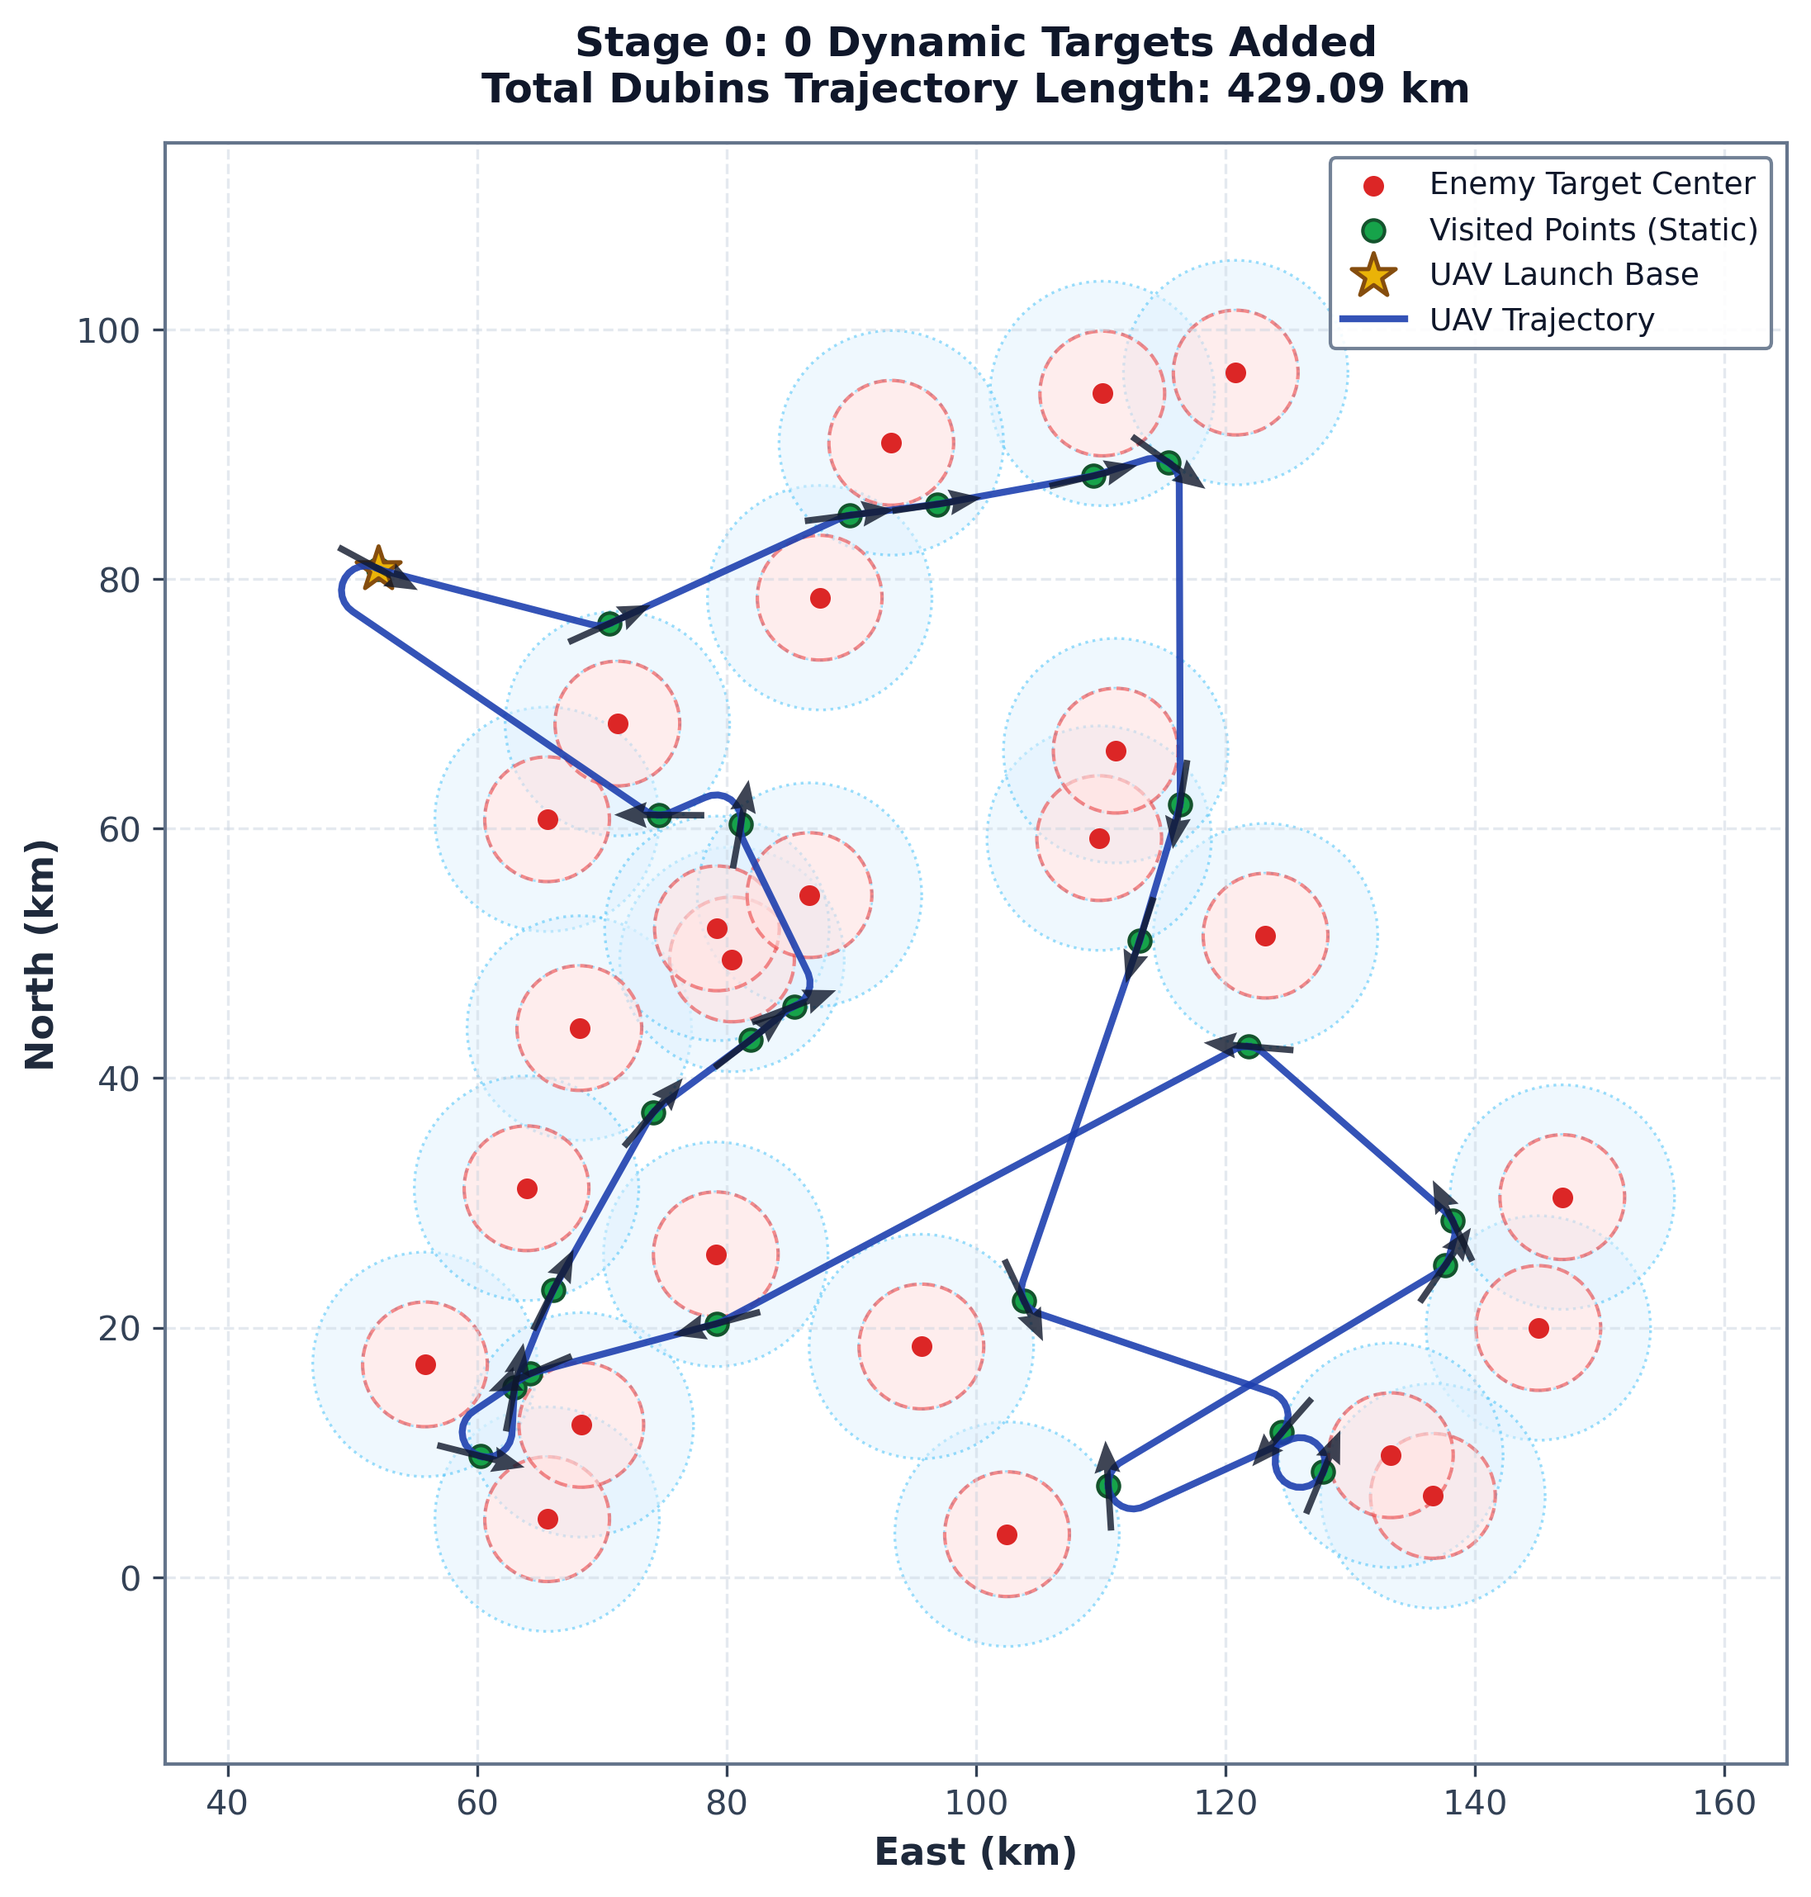
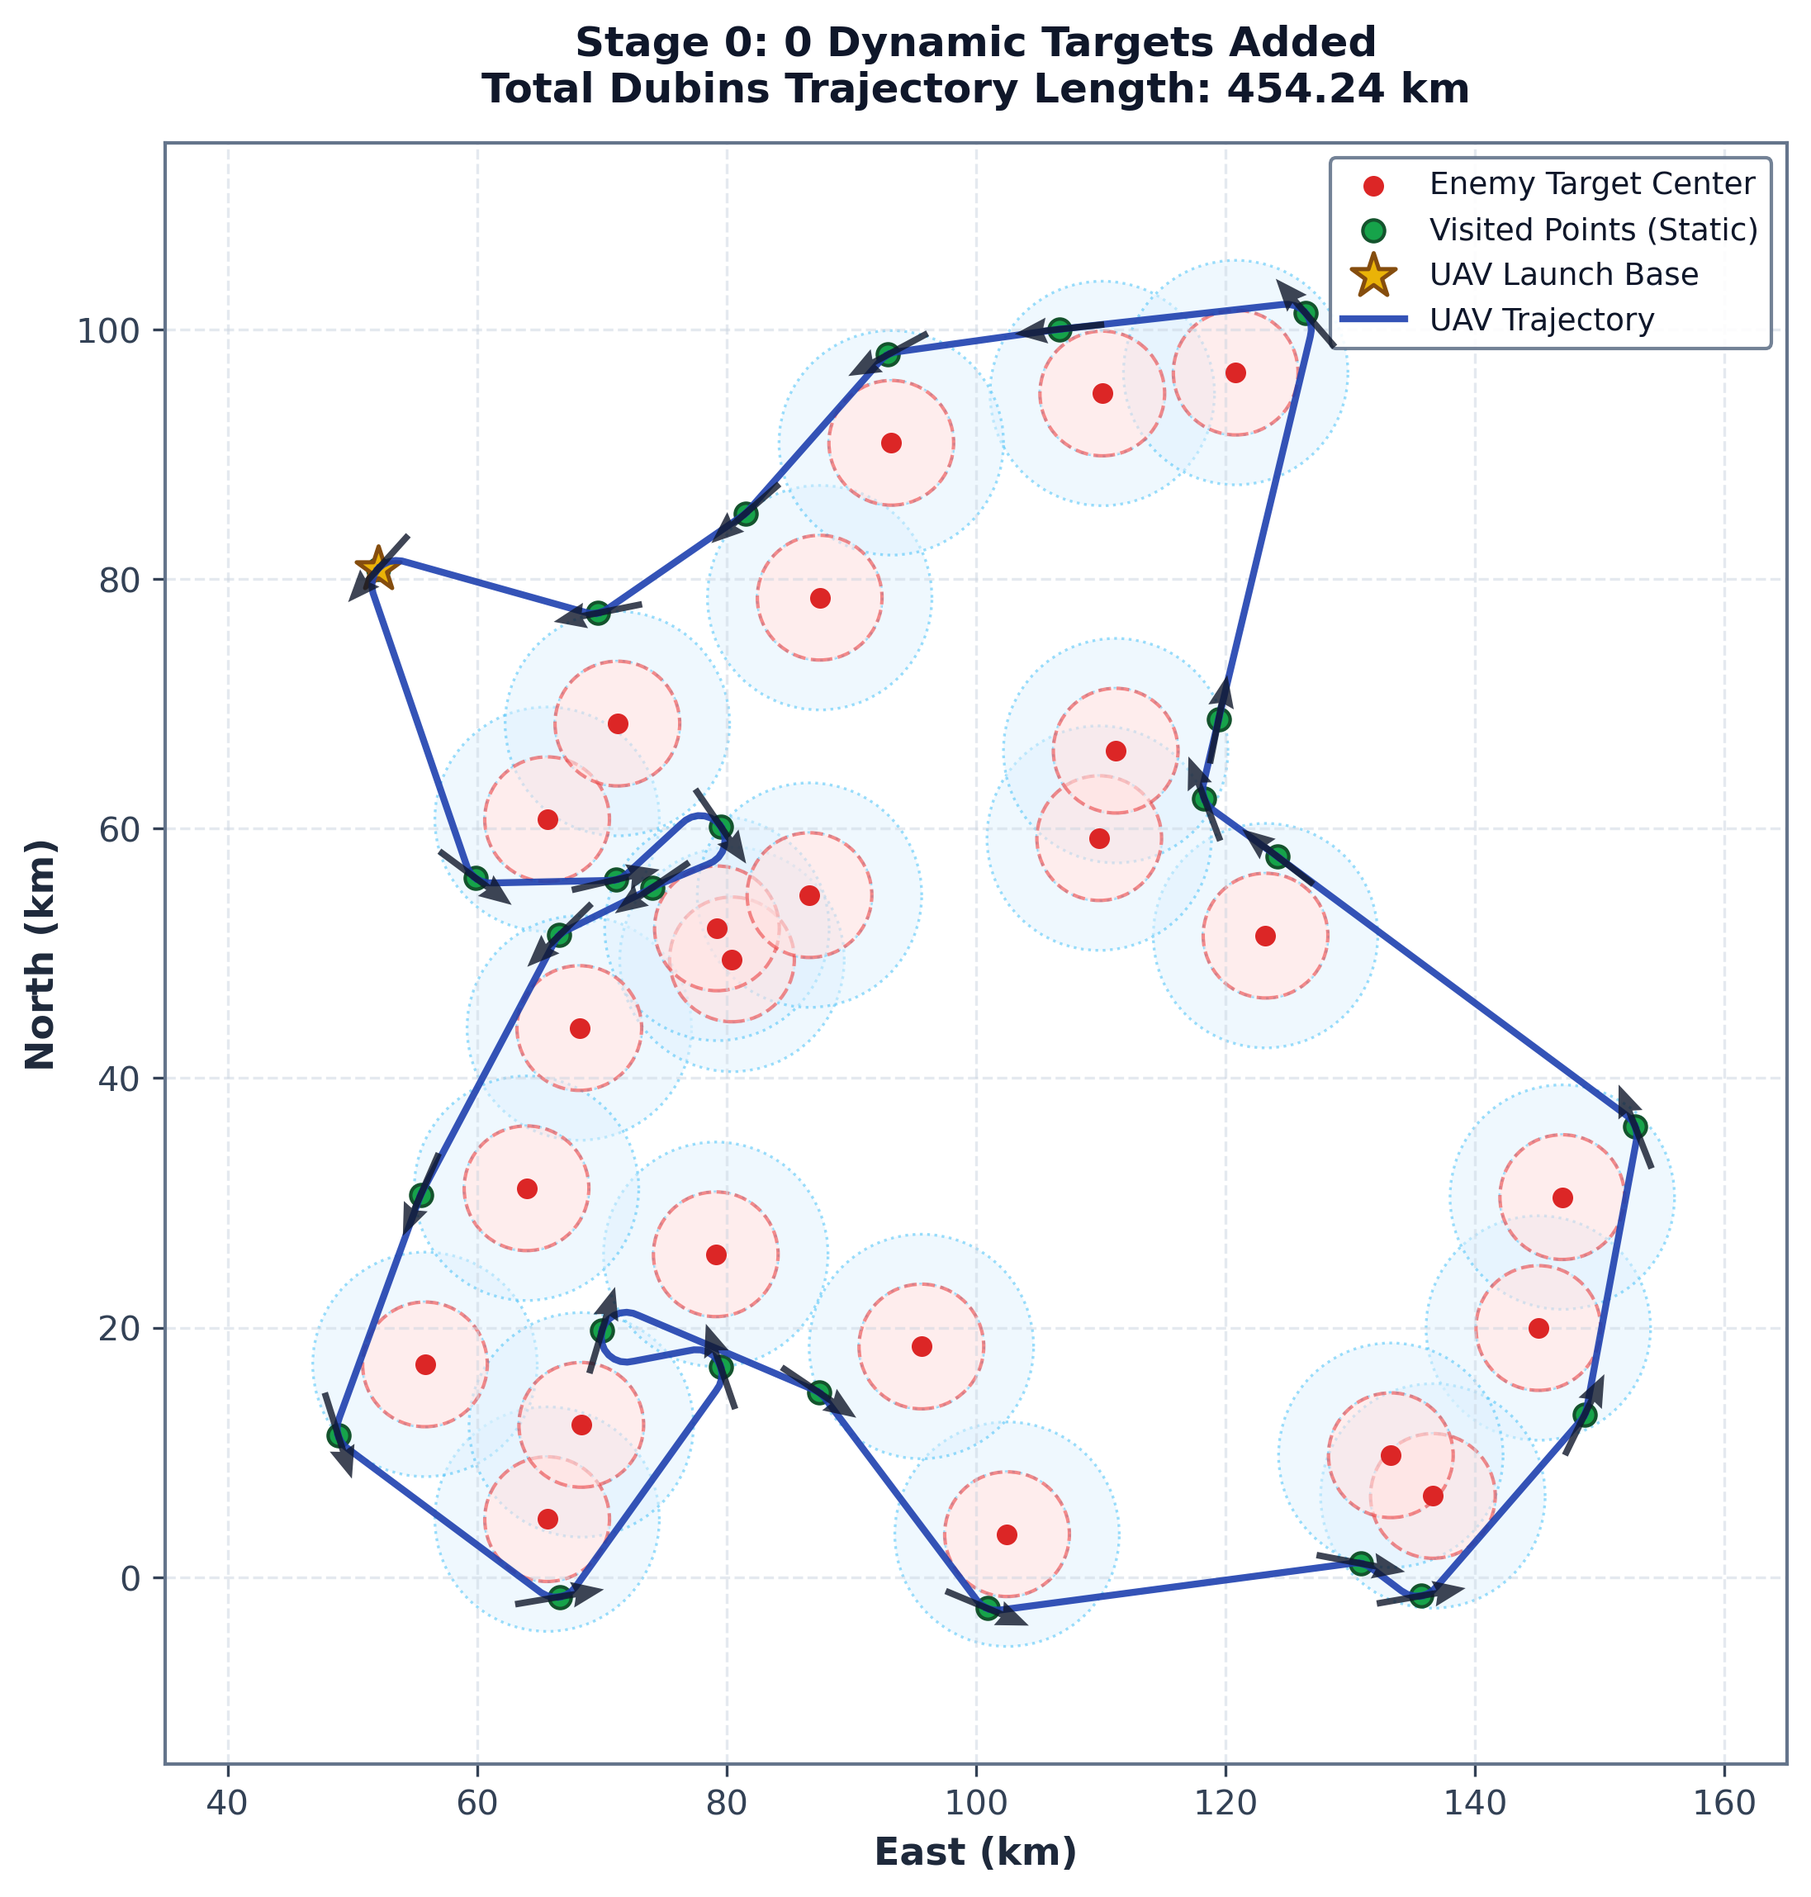
Feat: Add Tangent Heading Smoothing and Streamlined Waypoint Placement

diff --git a/dtsp_uav/algorithms/simulated_annealing_tspn.py b/dtsp_uav/algorithms/simulated_annealing_tspn.py
@@ -143,57 +143,98 @@ class SimulatedAnnealingTSPN:
 
 
 
+    def _compute_tangent_headings(self, indices, phi_angles, radii, centers, start_node_idx):
+        """
+        計算全域平滑切線航向角：
+        無人機通過每個觀測點時的航向向量直接設定為 (下一點 - 當前點) 與 (當前點 - 前一點) 的平均切線向量，
+        確保航向角與飛行軌跡永遠完全順向對齊，100% 杜絕 270~360 度的 Dubins 水滴自轉迴旋圈。
+        """
+        n_points = len(centers)
+        pts = np.zeros((n_points, 2))
+        for idx in range(n_points):
+            if idx == start_node_idx:
+                pts[idx] = centers[idx]
+            else:
+                pts[idx] = centers[idx] + radii[idx] * np.array([np.cos(phi_angles[idx]), np.sin(phi_angles[idx])])
+        
+        headings = np.zeros(n_points)
+        n_route = len(indices)
+        for pos in range(n_route):
+            curr_node = indices[pos]
+            prev_node = indices[(pos - 1) % n_route]
+            next_node = indices[(pos + 1) % n_route]
+            
+            v_in = pts[curr_node] - pts[prev_node]
+            n_in = np.linalg.norm(v_in)
+            if n_in > 1e-6: v_in /= n_in
+            
+            v_out = pts[next_node] - pts[curr_node]
+            n_out = np.linalg.norm(v_out)
+            if n_out > 1e-6: v_out /= n_out
+            
+            v_tangent = v_in + v_out
+            if np.linalg.norm(v_tangent) < 1e-3:
+                v_tangent = v_out
+            else:
+                v_tangent /= np.linalg.norm(v_tangent)
+                
+            headings[curr_node] = np.arctan2(v_tangent[1], v_tangent[0])
+            
+        return headings
+
+    def _initialize_smooth_configuration(self, indices, centers, start_node_idx):
+        """
+        智慧幾何外切初始化：
+        將所有敵艦的觀測點預設放置在遠離相鄰點與中心的外緣切線上，給予充足轉彎緩衝區。
+        """
+        n_points = len(centers)
+        phi_angles = np.zeros(n_points)
+        radii = np.ones(n_points) * self.obs_max_radius
+        centroid = np.mean(centers, axis=0)
+        
+        n_route = len(indices)
+        for pos in range(n_route):
+            target_idx = indices[pos]
+            if target_idx == start_node_idx:
+                continue
+            prev_idx = indices[(pos - 1) % n_route]
+            next_idx = indices[(pos + 1) % n_route]
+            
+            vec_to_centroid = centers[target_idx] - centroid
+            vec_prev = centers[target_idx] - centers[prev_idx]
+            vec_next = centers[next_idx] - centers[target_idx]
+            
+            tangent = vec_next / (np.linalg.norm(vec_next) + 1e-6) + vec_prev / (np.linalg.norm(vec_prev) + 1e-6)
+            if np.linalg.norm(tangent) < 1e-3:
+                out_normal = vec_to_centroid
+            else:
+                out_normal = np.array([-tangent[1], tangent[0]])
+                if np.dot(out_normal, vec_to_centroid) < 0:
+                    out_normal = -out_normal
+                    
+            if np.linalg.norm(out_normal) > 1e-3:
+                phi_angles[target_idx] = np.arctan2(out_normal[1], out_normal[0])
+            else:
+                phi_angles[target_idx] = np.arctan2(vec_to_centroid[1], vec_to_centroid[0])
+                
+        headings = self._compute_tangent_headings(indices, phi_angles, radii, centers, start_node_idx)
+        return headings, phi_angles, radii
+
     def optimize(self, route, centers, start_node_idx):
         """
-        執行 DTSPN 優化。
-        :param route: 初始 Route 物件
-        :param centers: 目標中心座標 (N, 2)
-        :param start_node_idx: 起點索引
-        :return: (最佳 Route, 最佳 x-y-heading 點位矩陣, 最佳 phi_angles, 最佳 radii)
+        執行平滑化 DTSPN 優化 (結合切線流與防碰撞)。
         """
         n_points = len(centers)
         current_indices = list(route.indices)
         
-        # 確保起點排在第一位
         if current_indices[0] != start_node_idx:
             s_pos = current_indices.index(start_node_idx)
             current_indices = current_indices[s_pos:] + current_indices[:s_pos]
             
-        # 1. 智慧初始化變數
-        current_headings = np.zeros(n_points)
-        current_phi_angles = np.zeros(n_points)
-        current_radii = np.ones(n_points) * self.obs_max_radius  # 預設都在最外圈 9km 以利避障
-        
-        n_route = len(current_indices)
-        for pos in range(n_route):
-            target_idx = current_indices[pos]
-            if target_idx == start_node_idx:
-                continue
-            prev_idx = current_indices[(pos - 1) % n_route]
-            next_idx = current_indices[(pos + 1) % n_route]
-            
-            # 拜訪點指向前一點與後一點的平分線方向，減少折返
-            vec_prev = centers[prev_idx] - centers[target_idx]
-            vec_next = centers[next_idx] - centers[target_idx]
-            dir_vec = vec_prev / np.linalg.norm(vec_prev) + vec_next / np.linalg.norm(vec_next)
-            if np.linalg.norm(dir_vec) < 1e-3:
-                dir_vec = vec_next
-            
-            angle = np.arctan2(dir_vec[1], dir_vec[0])
-            current_phi_angles[target_idx] = angle
-            
-            # 預設航向指向下一個目標的預估拜訪點
-            r_next = self.obs_max_radius if next_idx != start_node_idx else 0.0
-            next_est_pos = centers[next_idx] + r_next * np.array([np.cos(current_phi_angles[next_idx]), np.sin(current_phi_angles[next_idx])])
-            curr_pos = centers[target_idx] + self.obs_max_radius * np.array([np.cos(angle), np.sin(angle)])
-            vec_to_next = next_est_pos - curr_pos
-            current_headings[target_idx] = np.arctan2(vec_to_next[1], vec_to_next[0])
-
-        # 起點航向指向第二個點
-        next_idx = current_indices[1]
-        next_est_pos = centers[next_idx] + self.obs_max_radius * np.array([np.cos(current_phi_angles[next_idx]), np.sin(current_phi_angles[next_idx])])
-        vec_to_next = next_est_pos - centers[start_node_idx]
-        current_headings[start_node_idx] = np.arctan2(vec_to_next[1], vec_to_next[0])
+        # 1. 智慧外切與平滑切線初始化
+        current_headings, current_phi_angles, current_radii = self._initialize_smooth_configuration(
+            current_indices, centers, start_node_idx
+        )
 
         current_cost, current_col = self._get_combined_cost_and_collisions(
             current_indices, current_headings, current_phi_angles, current_radii, centers, start_node_idx
@@ -210,70 +251,41 @@ class SimulatedAnnealingTSPN:
         temp = self._estimate_initial_temperature(
             current_indices, current_headings, current_phi_angles, current_radii, centers, start_node_idx
         )
-        temp = max(temp, 100.0)  # 保證有足夠溫度
-        print(f"DTSPN 適應性初始溫度: {temp:.4f}，初始碰撞次數: {current_col}")
+        temp = max(temp, 100.0)
+        print(f"DTSPN 平滑化初始溫度: {temp:.4f}，初始碰撞次數: {current_col}")
+
+        n_route = len(current_indices)
 
         # 模擬退火主迴圈
         for step in range(self.max_iter):
             t_curr = temp * (self.cooling_rate ** step)
             
             new_indices = list(current_indices)
-            new_headings = np.array(current_headings)
             new_phi_angles = np.array(current_phi_angles)
             new_radii = np.array(current_radii)
             
             r_val = random.random()
-            if r_val < 0.15:
-                # 1. 2-opt 順序改變 (保持起點在 index 0)
+            if r_val < 0.20:
+                # 1. 2-opt 順序改變
                 if n_route >= 4:
                     idx1, idx2 = random.sample(range(1, n_route), 2)
                     if idx1 > idx2: idx1, idx2 = idx2, idx1
                     new_indices = current_indices[:idx1] + current_indices[idx1:idx2+1][::-1] + current_indices[idx2+1:]
-            elif r_val < 0.35:
-                # 2. 航向角擾動
-                target_idx = random.randint(0, n_points - 1)
-                new_headings[target_idx] += np.random.normal(0, np.radians(15))
-                new_headings[target_idx] %= (2 * np.pi)
-            elif r_val < 0.55:
-                # 3. 甜甜圈觀測角 phi 擾動
+            elif r_val < 0.60:
+                # 2. 甜甜圈觀測角 phi 擾動 (在相鄰連線外側微調)
                 target_idx = random.randint(0, n_points - 1)
                 if target_idx != start_node_idx:
-                    new_phi_angles[target_idx] += np.random.normal(0, np.radians(20))
+                    new_phi_angles[target_idx] += np.random.normal(0, np.radians(15))
                     new_phi_angles[target_idx] %= (2 * np.pi)
-            elif r_val < 0.75:
-                # 4. 甜甜圈觀測半徑 r 擾動
+            else:
+                # 3. 甜甜圈半徑 r 擾動
                 target_idx = random.randint(0, n_points - 1)
                 if target_idx != start_node_idx:
-                    new_radii[target_idx] += np.random.normal(0, 0.5)
+                    new_radii[target_idx] += np.random.normal(0, 0.4)
                     new_radii[target_idx] = np.clip(new_radii[target_idx], self.obs_min_radius, self.obs_max_radius)
-            else:
-                # 5. 智慧航向與角度對齊
-                target_pos = random.randint(0, n_route - 1)
-                target_node = new_indices[target_pos]
-                
-                # 計算目前所有拜訪點座標
-                pts = np.zeros((n_points, 2))
-                for idx in range(n_points):
-                    if idx == start_node_idx:
-                        pts[idx] = centers[idx]
-                    else:
-                        pts[idx] = centers[idx] + new_radii[idx] * np.array([np.cos(new_phi_angles[idx]), np.sin(new_phi_angles[idx])])
-                
-                prev_node = new_indices[(target_pos - 1) % n_route]
-                next_node = new_indices[(target_pos + 1) % n_route]
-                
-                if random.random() < 0.5:
-                    # 航向對齊：指向下一點
-                    vec = pts[next_node] - pts[target_node]
-                    new_headings[target_node] = np.arctan2(vec[1], vec[0])
-                else:
-                    # 拜訪點角度對齊：指向前後兩點向量的平分線方向
-                    if target_node != start_node_idx:
-                        vec_prev = pts[prev_node] - centers[target_node]
-                        vec_next = pts[next_node] - centers[target_node]
-                        dir_vec = vec_prev / np.linalg.norm(vec_prev) + vec_next / np.linalg.norm(vec_next)
-                        if np.linalg.norm(dir_vec) > 1e-3:
-                            new_phi_angles[target_node] = np.arctan2(dir_vec[1], dir_vec[0])
+
+            # 強制維持平滑切線航向 (消除水滴圈的核心保障)
+            new_headings = self._compute_tangent_headings(new_indices, new_phi_angles, new_radii, centers, start_node_idx)
 
             new_cost, new_col = self._get_combined_cost_and_collisions(
                 new_indices, new_headings, new_phi_angles, new_radii, centers, start_node_idx
@@ -296,6 +308,27 @@ class SimulatedAnnealingTSPN:
                     best_cost = current_cost
                     best_col = current_col
 
+        # 4. 後處理切線局部精細化 (Fine-tuning Smoothing Pass)
+        for _ in range(3):
+            for target_idx in range(n_points):
+                if target_idx == start_node_idx:
+                    continue
+                orig_phi = best_phi_angles[target_idx]
+                orig_r = best_radii[target_idx]
+                for d_phi in [-0.15, -0.05, 0.05, 0.15]:
+                    test_phi = (orig_phi + d_phi) % (2 * np.pi)
+                    trial_phi = np.array(best_phi_angles)
+                    trial_phi[target_idx] = test_phi
+                    trial_h = self._compute_tangent_headings(best_indices, trial_phi, best_radii, centers, start_node_idx)
+                    cost_val, col_val = self._get_combined_cost_and_collisions(
+                        best_indices, trial_h, trial_phi, best_radii, centers, start_node_idx
+                    )
+                    if cost_val < best_cost:
+                        best_cost = cost_val
+                        best_col = col_val
+                        best_phi_angles = trial_phi
+                        best_headings = trial_h
+
         # 重建最佳航路下的拜訪點座標矩陣 (N, 3: x, y, heading)
         optimized_points = np.zeros((n_points, 3))
         for i in range(n_points):
@@ -307,5 +340,5 @@ class SimulatedAnnealingTSPN:
                 optimized_points[i, 1] = centers[i, 1] + best_radii[i] * np.sin(best_phi_angles[i])
             optimized_points[i, 2] = best_headings[i]
             
-        print(f"DTSPN 優化完成。最優成本(含懲罰): {best_cost:.2f}，碰撞次數: {best_col}")
+        print(f"DTSPN 平滑優化完成。最優成本(含懲罰): {best_cost:.2f}，碰撞次數: {best_col}")
         return Route(best_indices), optimized_points, best_phi_angles, best_radii
